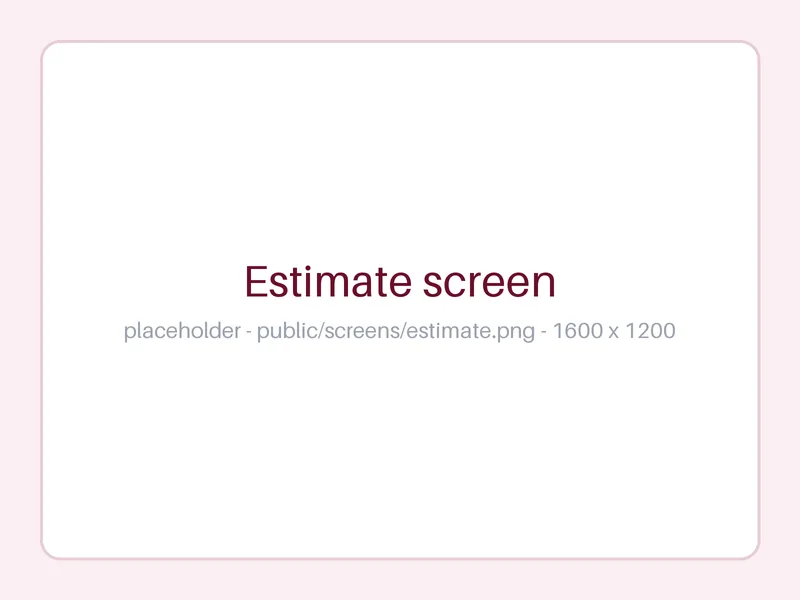
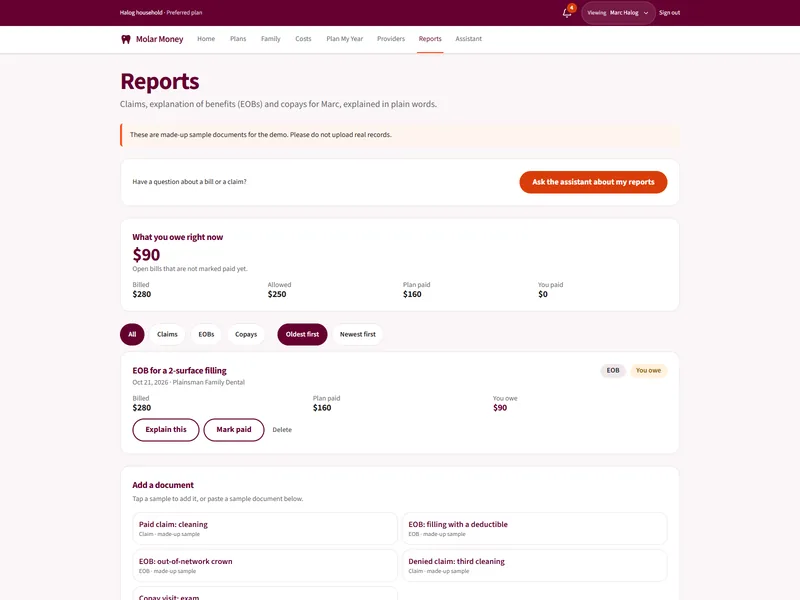
Landing: real app screenshots instead of placeholders
The landing still showed placeholder cards ("Estimate screen", "Plan My
Year screen") and an old bitewise prototype screen. Now 1600x1200
captures of the live app (fresh demo family, Netlify badge and assistant
button hidden), plus the 800 px webp versions:
- coverage: Plans (the three plans and what Preferred covers)
- estimate: Reports (what you owe right now, each bill explained)
- plan: Plan My Year after "Try the demo case" ($1,410 now, $965 best
  order, save $445)
Alt text and the hero's address bar (molarmoney.app/plans) updated.

diff --git a/frontend/src/components/landing/screens.ts b/frontend/src/components/landing/screens.ts
@@ -3,9 +3,9 @@ export const SCREEN_W = 1600
 export const SCREEN_H = 1200
 
 export const screens = {
-  coverage: { src: '/screens/coverage.png', srcSet: '/screens/coverage-800.webp 800w, /screens/coverage.png 1600w', alt: 'The Molar Money My Coverage screen: what your plan covers and what you have left' },
-  estimate: { src: '/screens/estimate.png', srcSet: '/screens/estimate-800.webp 800w, /screens/estimate.png 1600w', alt: 'The Molar Money Estimate screen: what you pay and what your plan pays for a procedure' },
-  plan: { src: '/screens/plan.png', srcSet: '/screens/plan-800.webp 800w, /screens/plan.png 1600w', alt: 'The Molar Money Plan My Year screen: when to schedule each procedure' },
+  coverage: { src: '/screens/coverage.png', srcSet: '/screens/coverage-800.webp 800w, /screens/coverage.png 1600w', alt: 'The Molar Money Plans page: the three plans side by side and what yours covers, in plain English' },
+  estimate: { src: '/screens/estimate.png', srcSet: '/screens/estimate-800.webp 800w, /screens/estimate.png 1600w', alt: 'The Molar Money Reports page: what you owe right now, and each bill explained' },
+  plan: { src: '/screens/plan.png', srcSet: '/screens/plan-800.webp 800w, /screens/plan.png 1600w', alt: 'The Molar Money Plan My Year page: the cheapest order for your treatments and how much you save' },
 } as const
 
 // Product fan geometry. The hero's zoom ends exactly where the fan starts, so both read these.

diff --git a/frontend/src/components/landing/Hero.tsx b/frontend/src/components/landing/Hero.tsx
@@ -200,7 +200,7 @@ export default function Hero({ zoom = false }: { zoom?: boolean }) {
                   <span className="size-2.5 rounded-full bg-[var(--line)]" />
                   <span className="size-2.5 rounded-full bg-[var(--line)]" />
                   <span className="ml-3 h-6 flex-1 rounded-full bg-white px-3 text-[11px] leading-6 text-muted-foreground">
-                    molarmoney.app/coverage
+                    molarmoney.app/plans
                   </span>
                 </motion.div>
                 <motion.div
